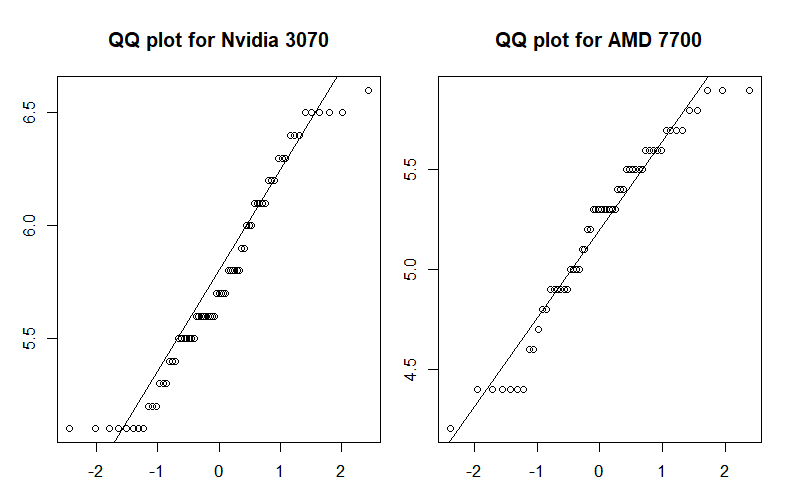
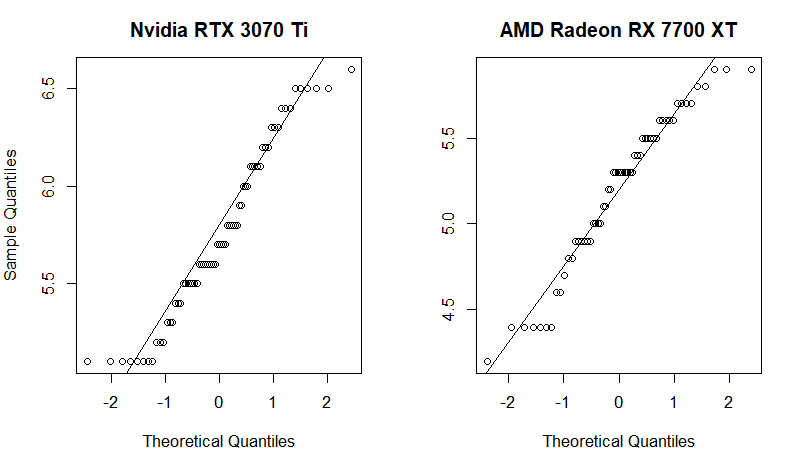
Finish DU01

diff --git a/tasks/du01/output.tex b/tasks/du01/output.tex
@@ -18,7 +18,7 @@ Výsledky popisné statistiky lze vidět v \tabref{tab:characteristics-summary} 
 \newcommand{\meanValues}        {5.600,     5.371,      5.750,      5.191}
 \newcommand{\QtValues}          {6.100,     5.550,      6.100,      5.500}
 \newcommand{\maxValues}         {6.6,       15.8,       6.6,        5.9}
-\newcommand{\sdValues}          {1.334,     1.452,      0.439,      0.451}
+\newcommand{\sdValues}          {1.335,     1.452,      0.439,      0.451}
 \newcommand{\cvValues}          {23.8,      27.0,       7.6,        8.7}
 \newcommand{\skewnessValues}    {-6.9,      6.4,        0.2,        -0.4}
 \newcommand{\kurtosisValues}    {51.3,      43.8,       -1.0,       -0.7}
@@ -26,7 +26,7 @@ Výsledky popisné statistiky lze vidět v \tabref{tab:characteristics-summary} 
 \newcommand{\upperBoundValues}  {7.1125,    6.5250,     0,          0}
 
 % Additional values
-\newcommand{\sigmaValues} {2.757, 8.768, 1.997, 8.453}
+\newcommand{\sigmaValues} {4.873, 6.628, 4.289, 6.093}
 
 % Helper command to put everything in table.
 \newcommand{\tableValue}[2]{%
@@ -75,7 +75,7 @@ Výsledky popisné statistiky lze vidět v \tabref{tab:characteristics-summary} 
 
 \begin{figure}[h!]
     \centering
-    \includegraphics[width=0.8\textwidth]{assets/qq}
+    \includegraphics[width=0.85\textwidth]{assets/qq}
     \caption{Q-Q graf znázorňující nárůst FPS po aplikaci 1.5 patche ve hře "Cyberpunk 2077" pro grafické karty Nvidia RTX 3070 Ti a AMD Radeon RX 7700 XT}
     \label{fig:qq}
 \end{figure}
@@ -83,17 +83,15 @@ Výsledky popisné statistiky lze vidět v \tabref{tab:characteristics-summary} 
 \newpage
 \subsubsection*{Analýza nárůstu výkonnostních skóre (FPS) po aplikaci 1.5 patche ve hře "Cyberpunk 2077" pro grafickou kartu Nvidia RTX 3070 Ti}
 
-% TODO: Solve underline questions.
-Během testu byl zjišťován nárůst FPS pro grafickou kartu Nvidia RTX 3070 Ti ve hře "Cyberpunk 2077" mezi původním release a verzí s 1.5 patchem 
+Během testu byl zjišťován nárůst FPS pro grafickou kartu Nvidia RTX 3070 Ti ve hře "Cyberpunk 2077" mezi původním release a verzí s 1.5 patchem
 pro \tableValue{\rangeValues}{0} testovacích systémů. Zjištěný nárůst FPS se pohyboval v rozmezí \tableValue{\minValues}{0} FPS
-až \tableValue{\maxValues}{0} FPS. \ul{Nárůst FPS v testu č. 20 byl na základě metody vnitřních hradeb identifikován jako odlehlé pozorování
-a nebude zahrnut do dalšího zpracování. \footnote{V případě potřeby (existence vícero odlehlých pozorování) větu vhodným způsobem upravte.}
-Možné příčiny vzniku odlehlých pozorování jsou: Chyba při testování vzklá náhlým výkyvem výkonem počítače.} Dále uvedené výsledky tedy pocházejí z
-analýzy nárůstů FPS zjištěných u \tableValue{\rangeValues}{2} testovacích systémů. Průměrný nárůst FPS byl \tableValue{\meanValues}{2} FPS,
-směrodatná odchylka pak \tableValue{\sdValues}{2} FPS. U poloviny testovacích cyklů nárůst FPS nepřekročil \tableValue{\medianValues}{2} FPS\@.
-V polovině případů se nárůst FPS pohyboval v rozmezí \tableValue{\QfValues}{2} FPS až \tableValue{\QtValues}{2} FPS. \ul{Vzhledem k hodnotě
-variačního koeficientu (\mbox{\tableValue{\cvValues}{3}}\%) lze / nelze analyzovaný soubor považovat za homogenní./ Vzhledem k povaze měřené
-veličiny není variační koeficient vhodnou mírou pro posouzení variability souboru.}
+až \tableValue{\maxValues}{0} FPS. Nárůst FPS v testu č. 20 byl na základě metody vnitřních hradeb identifikován jako odlehlé pozorování
+a nebude zahrnut do dalšího zpracování. Možné příčiny vzniku odlehlých pozorování jsou: Chyba při testování vzniklá náhlým výkyvem výkonu počítače
+nebo chyba hardwaru výpočetní stanice. Dále uvedené výsledky tedy pocházejí z analýzy nárůstů FPS zjištěných u \tableValue{\rangeValues}{2}
+testovacích systémů. Průměrný nárůst FPS byl \tableValue{\meanValues}{2} FPS, směrodatná odchylka pak \tableValue{\sdValues}{2} FPS\@.
+U poloviny testovacích cyklů nárůst FPS nepřekročil \tableValue{\medianValues}{2} FPS. V polovině případů se nárůst FPS pohyboval v
+rozmezí \tableValue{\QfValues}{2} FPS až \tableValue{\QtValues}{2} FPS. Vzhledem k hodnotě variačního koeficientu (\mbox{\tableValue{\cvValues}{3}}\%)
+lze analyzovaný soubor považovat za homogenní.
 
 \vspace{1em}
 \noindent
@@ -101,16 +99,14 @@ Výsledky pro grafickou kartu AMD Radeon RX 7700 XT lze komentovat obdobně.
 
 \subsubsection*{Ověření normality nárůstu výkonnostních skóre (FPS) po aplikaci 1.5 patche ve hře "Cyberpunk 2077" pro grafickou kartu Nvidia RTX 3070 Ti}
 
-% TODO: Solve underline questions.
-Na základě grafického zobrazení (viz \figref{fig:qq}) a výběrové šikmosti a špičatosti (viz \tabref{tab:characteristics-summary}, výběrová šikmost a špičatost \ul{leží \slash neleží}
-v intervalu (-2, 2)) \ul{lze \slash nelze} předpokládat, že pozorovaný nárůst FPS má normální rozdělení. Dle \ul{pravidla 3$\sigma$ \slash Čebyševovy nerovnosti}
-lze tedy očekávat, že \ul{přibližně u 95 \% \slash alespoň 75 \%} naměřených nárůstů ve výkonu bude \tableValue{\sigmaValues}{0} FPS až \tableValue{\sigmaValues}{1} FPS\@.
+Na základě grafického zobrazení (viz \figref{fig:qq}) u grafické karty Nvidia RTX 3070 Ti a výběrové šikmosti a špičatosti (viz \tabref{tab:characteristics-summary},
+výběrová šikmost a špičatost leží v intervalu (-2, 2)) lze předpokládat, že pozorovaný nárůst FPS má normální rozdělení. Dle pravidla 3$\sigma$ lze tedy očekávat,
+že přibližně u 95 \% naměřených nárůstů ve výkonu bude \tableValue{\sigmaValues}{0} FPS až \tableValue{\sigmaValues}{1} FPS\@.
 
 \subsubsection*{Ověření normality nárůstu výkonnostních skóre (FPS) po aplikaci 1.5 patche ve hře "Cyberpunk 2077" pro grafickou kartu AMD Radeon RX 7700 XT}
 
-% TODO: Solve underline questions.
-Na základě grafického zobrazení (viz \figref{fig:qq}) a výběrové šikmosti a špičatosti (viz \tabref{tab:characteristics-summary}, výběrová šikmost a špičatost \ul{leží \slash neleží}
-v intervalu (-2, 2)) \ul{lze \slash nelze} předpokládat, že pozorovaný nárůst FPS má normální rozdělení. Dle \ul{pravidla 3$\sigma$ \slash Čebyševovy nerovnosti}
-lze tedy očekávat, že \ul{přibližně u 95 \% \slash alespoň 75 \%} naměřených nárůstů ve výkonu bude \tableValue{\sigmaValues}{2} FPS až \tableValue{\sigmaValues}{3} FPS\@.
+Na základě grafického zobrazení (viz \figref{fig:qq}) u grafické karty AMD Radeon RX 7700 XT a výběrové šikmosti a špičatosti (viz \tabref{tab:characteristics-summary},
+výběrová šikmost a špičatost leží v intervalu (-2, 2)) lze předpokládat, že pozorovaný nárůst FPS má normální rozdělení. Dle pravidla 3$\sigma$ lze tedy očekávat,
+že přibližně u 95 \% naměřených nárůstů ve výkonu bude \tableValue{\sigmaValues}{2} FPS až \tableValue{\sigmaValues}{3} FPS\@.
 
 \endinput

diff --git a/main.tex b/main.tex
@@ -25,8 +25,8 @@
 \renewcommand{\footrulewidth}{0pt}
 
 % Table and Image references
-\newcommand{\tabref}[1]{Tabulka \ref{#1}}
-\newcommand{\figref}[1]{Obrázek \ref{#1}}
+\newcommand{\tabref}[1]{Tab. \ref{#1}}
+\newcommand{\figref}[1]{Obr. \ref{#1}}
 
 % TODO command, to show spaces where to fill requested values more easily
 \newcommand{\TODO}{\mbox{\textbf{\textcolor{red}{...} }}}
@@ -82,19 +82,19 @@
     \textbf{Ostrava, AR 2024/2025}
 \end{center}
 
-\newpage
-\input{pages/source_description}
+%\newpage
+%\input{pages/source_description}
 
 \newpage
 \input{tasks/du01/output}
 
-\newpage
-\input{tasks/du02}
+%\newpage
+%\input{tasks/du02}
 
-\newpage
-\input{tasks/du03}
+%\newpage
+%\input{tasks/du03}
 
-\newpage
-\input{pages/help}
+%\newpage
+%\input{pages/help}
 
 \end{document}
